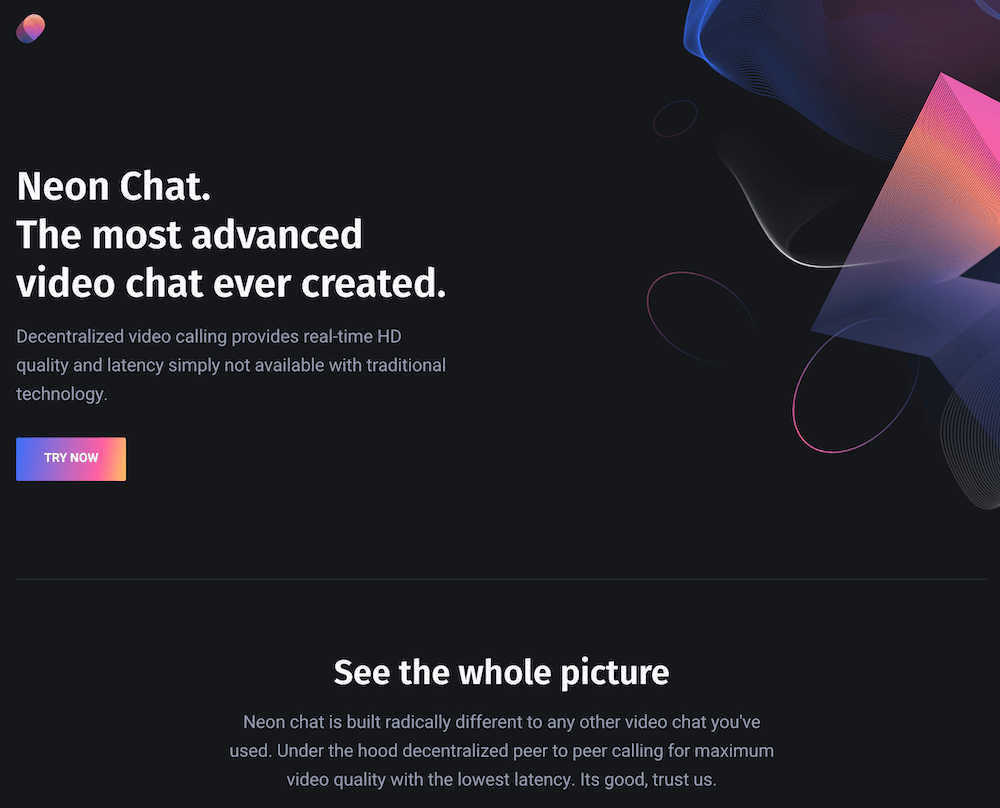
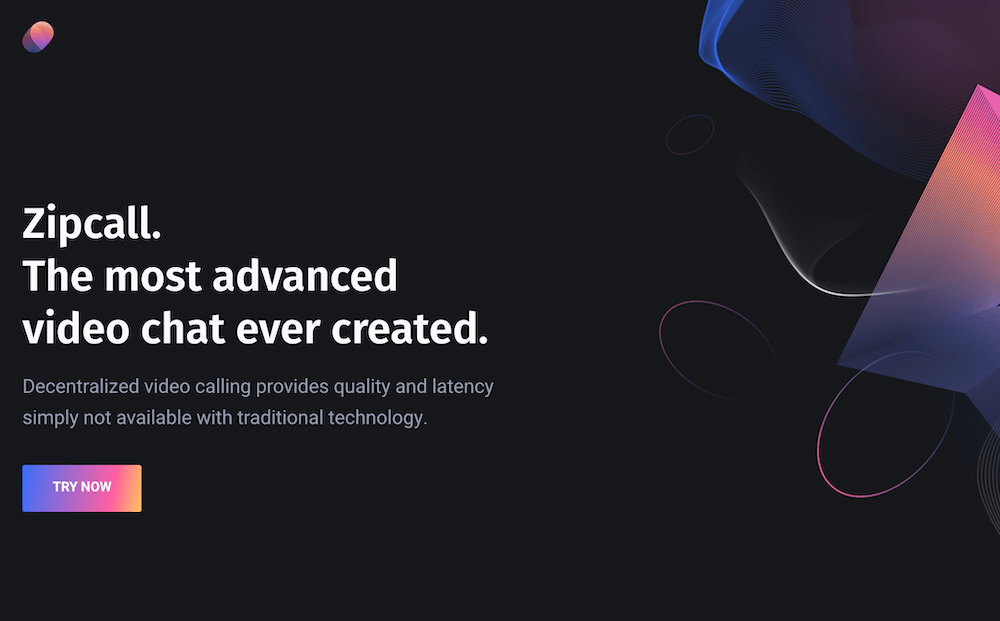
rebrand to zipcall.io

diff --git a/public/landing.html b/public/landing.html
@@ -4,21 +4,18 @@
     <meta charset="utf-8" />
     <meta http-equiv="X-UA-Compatible" content="IE=edge" />
     <meta name="viewport" content="width=device-width,initial-scale=1" />
-    <title>Neon Chat</title>
+    <title>Zipcall</title>
     <link rel="stylesheet" href="css/landing.css" />
     <link rel="shortcut icon" href="images/logo.svg" />
-    <meta property="og:title" content="Neonchat - Decentralized video calls" />
+    <meta property="og:title" content="Zipcall - Decentralized video calls" />
     <meta
       property="og:description"
       content="Decentralized video
                                     calling provides real-time HD quality and latency simply
                                     not available with traditional technology."
     />
-    <meta
-      property="og:image"
-      content="https://neonchat.io/images/preview.png"
-    />
-    <meta property="og:url" content="https://neonchat.io/" />
+    <meta property="og:image" content="https://zipcall.io/images/preview.png" />
+    <meta property="og:url" content="https://zipcall.io/" />
     <!-- Global site tag (gtag.js) - Google Analytics -->
     <script
       async
@@ -74,7 +71,7 @@
                       class="mt-0 mb-16 reveal-from-bottom"
                       data-reveal-delay="150"
                     >
-                      Neon Chat.<br />The most advanced video chat ever created.
+                      Zipcall.<br />The most advanced video chat ever created.
                     </h1>
                     <p
                       class="mt-0 mb-32 reveal-from-bottom"
@@ -123,10 +120,10 @@
                 >
                   <h2 class="mt-0 mb-16">See the whole picture</h2>
                   <p class="m-0">
-                    Neon Chat is built radically different. We ditched slow
-                    bulky servers, opting for decentralized peer to peer
-                    calling. Maximum video quality and lowest latency. Its good,
-                    trust us.
+                    Zipcall is built radically different. We ditched slow bulky
+                    servers, opting for decentralized peer to peer calling.
+                    Maximum video quality and lowest latency. Its good, trust
+                    us.
                   </p>
                 </div>
               </div>
@@ -212,7 +209,7 @@
                       <h4 class="mt-0 mb-8">No Download Required</h4>
                       <p class="m-0 text-sm">
                         No download means you can get back to what matters most.
-                        Just open Neon Chats in Chrome or Firefox.
+                        Just open Zipcalls in Chrome or Firefox.
                       </p>
                     </div>
                   </div>
@@ -304,7 +301,7 @@
                         Software Engineer
                       </div>
                       <p class="m-0 text-sm">
-                        Connecting the world together one call at a time.
+                        Connecting the world together one Zipcall at a time.
                       </p>
                     </div>
                   </div>
@@ -389,7 +386,7 @@
                 </ul>
               </nav>
               <div class="footer-copyright">
-                &copy; 2020 Neon Chat, all rights reserved
+                &copy; 2020 Zipcall, all rights reserved
               </div>
             </div>
           </div>

diff --git a/public/chat.html b/public/chat.html
@@ -2,7 +2,7 @@
 <html>
   <head>
     <meta charset="UTF-8" />
-    <title>Neon Chat</title>
+    <title>ZipChat</title>
     <link rel="shortcut icon" href="/images/logo.svg" />
     <link rel="stylesheet" href="../css/chat.css" />
     <link rel="stylesheet" href="../css/snackbar.css" />
@@ -12,16 +12,13 @@
     ></script>
     <script src="https://ajax.googleapis.com/ajax/libs/jquery/2.0.0/jquery.min.js"></script>
     <script src="https://ajax.googleapis.com/ajax/libs/jqueryui/1.11.4/jquery-ui.min.js"></script>
-    <meta property="og:title" content="Join your friends call - Neonchat" />
+    <meta property="og:title" content="Join your friends call - Zipcall" />
     <meta
       property="og:description"
-      content="Click the link to join this chat room using Neonchat"
+      content="Click the link to join this chat room using Zipcall"
     />
-    <meta
-      property="og:image"
-      content="https://neonchat.io/images/preview.png"
-    />
-    <meta property="og:url" content="https://neonchat.io/" />
+    <meta property="og:image" content="https://zipcall.io/images/preview.png" />
+    <meta property="og:url" content="https://zipcall.io/" />
     <!-- Global site tag (gtag.js) - Google Analytics -->
     <script
       async
@@ -42,7 +39,7 @@
     <div id="header">
       <a href="/">
         <img src="/images/logo.svg" alt="Neon" width="48" height="48" />
-        <p>Neon Chat</p>
+        <p>Zipcall</p>
       </a>
     </div>
 

diff --git a/public/newroom.html b/public/newroom.html
@@ -4,21 +4,18 @@
     <meta charset="utf-8" />
     <meta http-equiv="X-UA-Compatible" content="IE=edge" />
     <meta name="viewport" content="width=device-width,initial-scale=1" />
-    <title>Neon Chat</title>
+    <title>Zipcall</title>
     <link rel="stylesheet" href="css/landing.css" />
     <link rel="shortcut icon" href="images/logo.svg" />
-    <meta property="og:title" content="Neonchat - Decentralized video calls" />
+    <meta property="og:title" content="Zipcall - Decentralized video calls" />
     <meta
       property="og:description"
       content="Decentralized video
                                     calling provides real-time HD quality and latency simply
                                     not available with traditional technology."
     />
-    <meta
-      property="og:image"
-      content="https://neonchat.io/images/preview.png"
-    />
-    <meta property="og:url" content="https://neonchat.io/" />
+    <meta property="og:image" content="https://zipcall.io/images/preview.png" />
+    <meta property="og:url" content="https://zipcall.io/" />
     <!-- Global site tag (gtag.js) - Google Analytics -->
     <script
       async
@@ -180,7 +177,7 @@
                 </ul>
               </nav>
               <div class="footer-copyright">
-                &copy; 2020 Neon Chat, all rights reserved
+                &copy; 2020 Zipcall Chat, all rights reserved
               </div>
             </div>
           </div>

diff --git a/public/js/chat.js b/public/js/chat.js
@@ -750,12 +750,12 @@ function startUp() {
     browserName === "MSIE"
   ) {
     alert(
-      "Your browser doesn't support Neon Chat. Please use Chrome or Firefox."
+      "Your browser doesn't support Zipcall. Please use Chrome or Firefox."
     );
     window.location.href = "/";
   }
 
-  document.title = "Neon Chat - " + url.substring(url.lastIndexOf("/") + 1);
+  document.title = "Zipcall - " + url.substring(url.lastIndexOf("/") + 1);
 
   // get webcam on load
   VideoChat.requestMediaStream();

diff --git a/README.md b/README.md
@@ -1,4 +1,4 @@
-# Decentralized Video Chat
+# Zipcall - Decentralized Video Chat
 
 [![Author](https://img.shields.io/badge/Author-ianramzy-brightgreen.svg)](https://ianramzy.com)
 ![License: MIT](https://img.shields.io/badge/License-MIT-yellow.svg)
@@ -6,11 +6,13 @@
 ![GitHub repo size](https://img.shields.io/github/repo-size/ianramzy/decentralized-video-chat.svg)
 [![Repo Link](https://img.shields.io/badge/Repo-Link-black.svg)](https://github.com/ianramzy/decentralized-video-chat)
 
-# https://neonchat.io
+# https://zipcall.io
 
 Decentralized video chat platform powered by WebRTC using Twilio STUN/TURN infrastructure.
-Neon Chat provides video quality and latency simply not available with traditional
+Zipcall provides video quality and latency simply not available with traditional
 technology.
+
+# Fixme
 
 ![screenshot](public/images/githubpreview.png "Video Calling")
 
